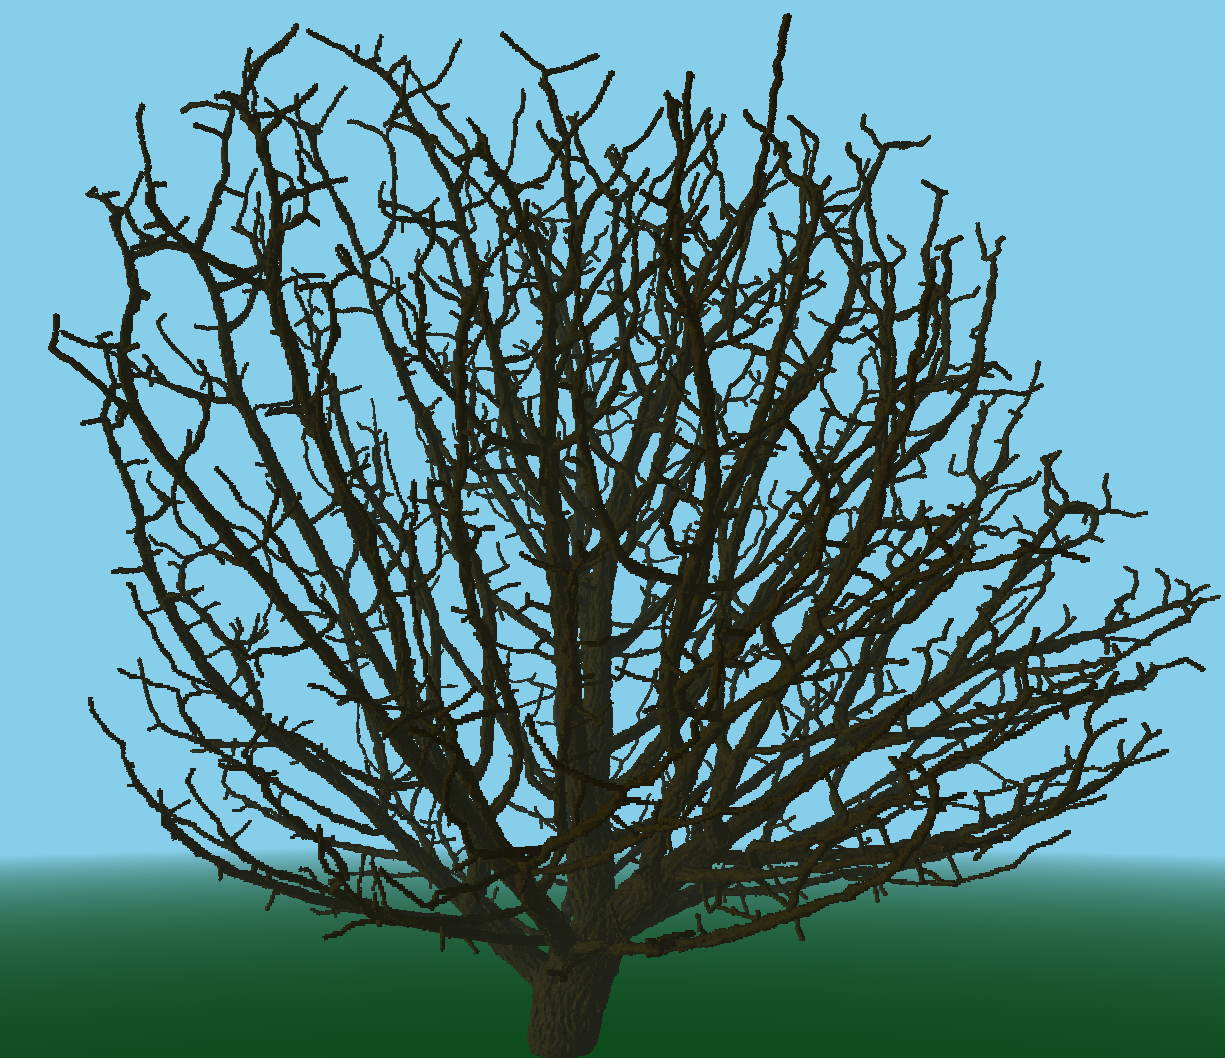
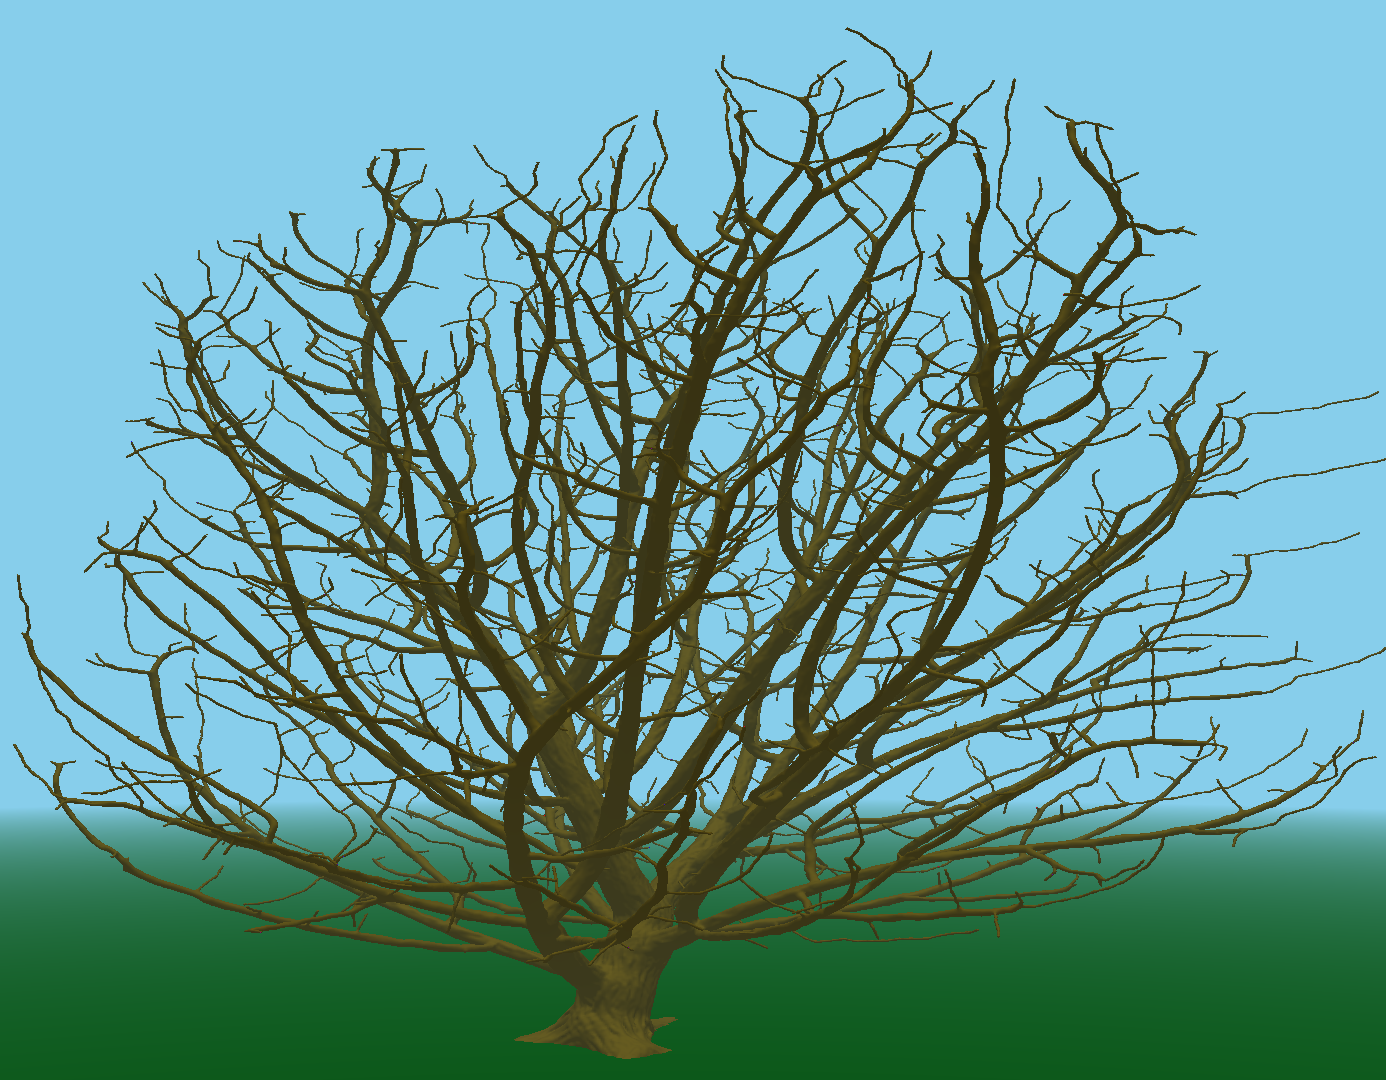
Change root angle heuristic, and cover

diff --git a/src/tree/strands.cpp b/src/tree/strands.cpp
@@ -54,7 +54,8 @@ void Strands::add_strands(unsigned int amount) {
 
     std::vector<glm::vec3> root_vecs(root_paths.size());
     for (size_t i = 0; i<root_vecs.size(); i++){
-        glm::vec3 angle_vec = root_paths[i][root_paths[i].size() - 1] - tree.get_com();
+        //glm::vec3 angle_vec = root_paths[i][root_paths[i].size() - 1] - tree.get_com();
+        glm::vec3 angle_vec = root_paths[i][(root_paths[i].size()-1)/8] - tree.get_com();
         angle_vec.y=0.f;
         angle_vec = glm::normalize(angle_vec);
         root_vecs[i] = angle_vec;
